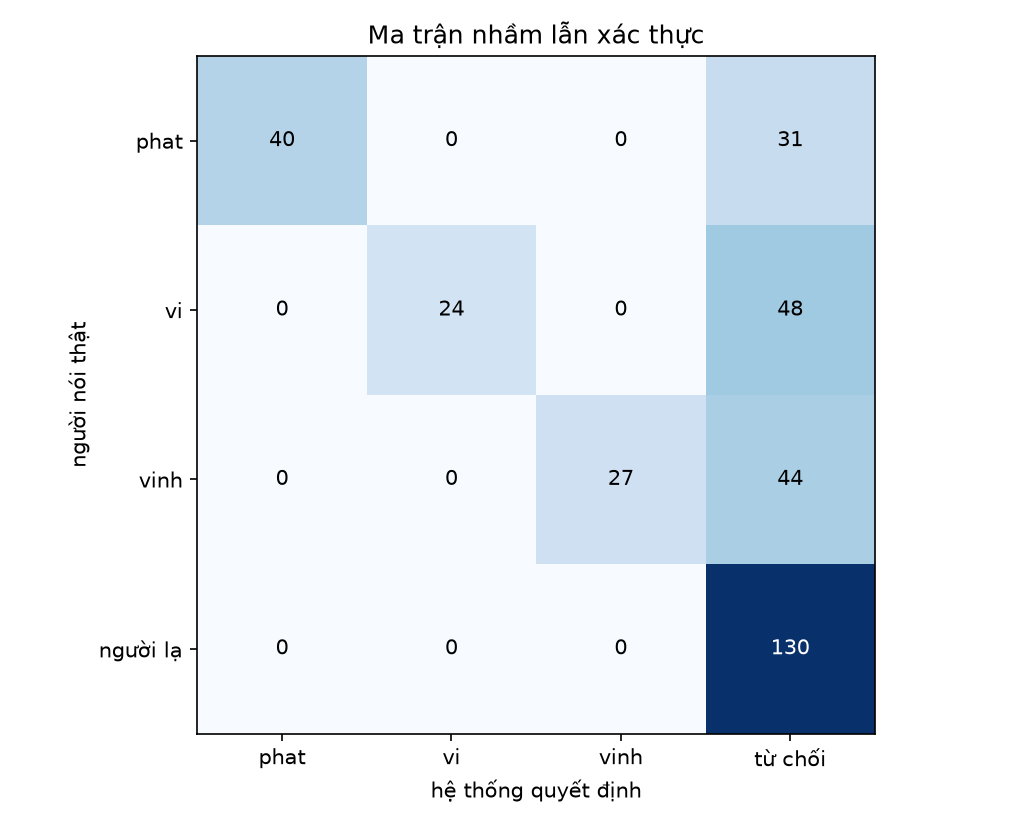
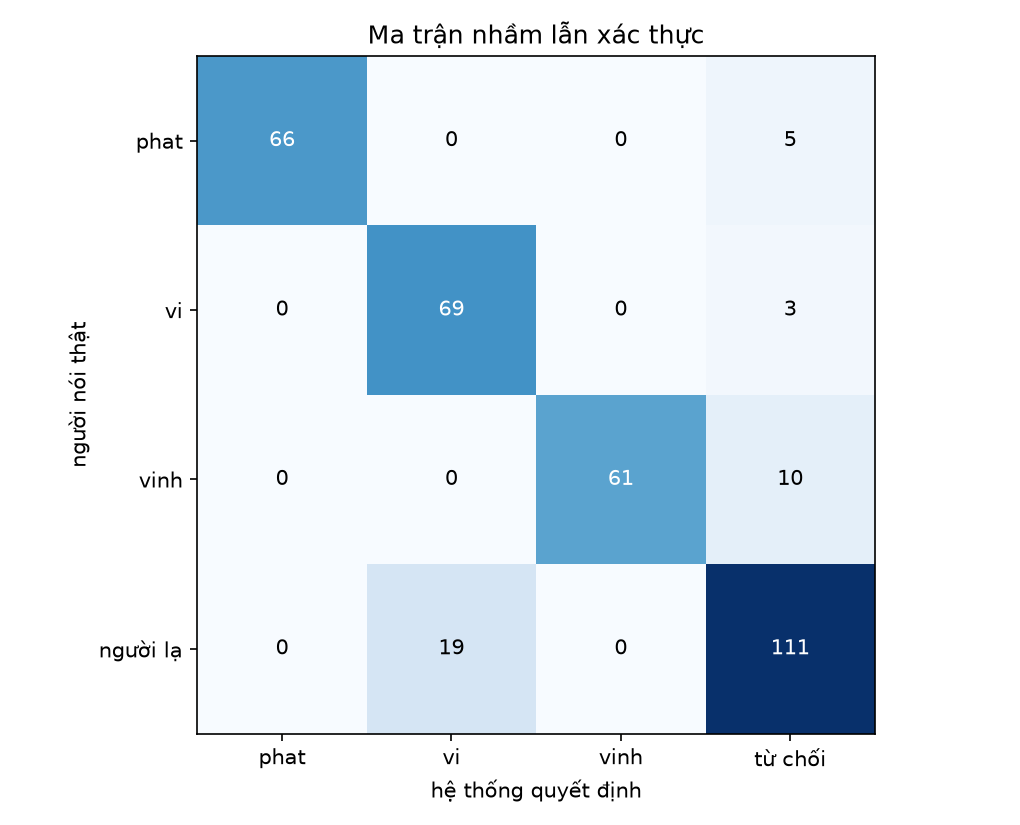
final update

Changed region(s): [[0.1824, 0.0606, 0.8814, 0.9091], [0.7598, 0.7576, 0.7902, 0.7879]]

diff --git a/src/train_speaker.py b/src/train_speaker.py
@@ -48,17 +48,28 @@ def loso_scores(method, C, gamma, X, y, split, X_unk=None):
         tr = [i for i in split["train"] if y[i] != s]
         va = [i for i in split["val"] if y[i] != s]
         imp_idx = np.where(y == s)[0]
+        
         Xt, yt = X[tr], y[tr]
-        if method == "unknown":
+        
+        # LẤY DỮ LIỆU TRAIN CỦA NGƯỜI BỊ BỎ GÁN NHÃN LÀ UNKNOWN
+        # Việc này giúp mô hình LOSO có số lớp bằng với mô hình thực tế
+        held_out_tr = [i for i in split["train"] if y[i] == s]
+        if len(held_out_tr) > 0:
+            Xt = np.vstack([Xt, X[held_out_tr]])
+            yt = np.concatenate([yt, np.array([UNKNOWN] * len(held_out_tr))])
+            
+        if X_unk is not None and len(X_unk) > 0:
             Xt = np.vstack([Xt, X_unk])
             yt = np.concatenate([yt, np.array([UNKNOWN] * len(X_unk))])
+            
         model = build_model(method, C, gamma).fit(Xt, yt)
+        
+        # Lấy điểm genuine (từ tập val) và impostor (từ người bị bỏ)
         names_v, sc_v = score_with(model, X[va], method)
         gens.append(trial_scores(y[va], names_v, sc_v))
         _, sc_i = score_with(model, X[imp_idx], method)
         imps.append(sc_i)
     return np.concatenate(gens), np.concatenate(imps)
-
 
 def main():
     ap = argparse.ArgumentParser()
@@ -124,16 +135,9 @@ def main():
     thresholds, loso_eer, models = {}, {}, {}
     for m in methods:
         if len(spks) >= 3:
-            _, imp = loso_scores(m, C, gamma, X, y, split, X_unk)
-            # Điểm "đúng người" lấy từ mô hình đủ số lớp (giống mô hình cuối), điểm người lạ giả lập
-            # lấy từ các fold LOSO. Như vậy ngưỡng không bị lệch vì fold LOSO có ít lớp hơn.
-            Xt, yt = X[tr], y[tr]
-            if m == "unknown":
-                Xt = np.vstack([Xt, X_unk])
-                yt = np.concatenate([yt, np.array([UNKNOWN] * len(X_unk))])
-            full = build_model(m, C, gamma).fit(Xt, yt)
-            names_v, sc_v = score_with(full, X[va], m)
-            gen = trial_scores(y[va], names_v, sc_v)
+            # SỬA: Lấy cả gen và imp từ LOSO (đã đồng bộ số lớp)
+            gen, imp = loso_scores(m, C, gamma, X, y, split, X_unk)
+            
             eer, thr = compute_eer(gen, imp)
             loso_eer[m] = eer
             thresholds[m] = thr
@@ -160,11 +164,11 @@ def main():
             acc = float(np.mean(names == y[te]))
             print(f"  [{m:7s}] độ chính xác nhận diện người (tập test đăng ký) = {acc * 100:.1f}%")
 
+    # Ép chọn margin vì proba hoạt động kém với bài toán open-set
     valid = [m for m in methods if loso_eer.get(m) is not None]
-    # Chỉ có 2 người đăng ký: không đo được EER, xác suất SVM 2 lớp luôn >= 0,5 nên ưu tiên điểm biên.
-    chosen = min(valid, key=lambda k: loso_eer[k]) if valid else "margin"
-    print(f"Phương pháp được chọn: {chosen}")
-
+    chosen = "margin" if "margin" in valid else (valid[0] if valid else "margin")
+    print(f"Phương pháp được chọn (ép buộc): {chosen}")
+    
     rel = lambda idxs: [recs[i]["rel"] for i in idxs]
     bundle = {
         "feature_set": args.feature_set, "feature_version": FEATURE_VERSION,

diff --git a/src/speaker.py b/src/speaker.py
@@ -259,16 +259,26 @@ def score_with(model, X, method: str):
         D = model.decision_function(X)
         if D.ndim == 1:                      # chỉ 2 lớp
             D = np.column_stack([-D, D])
+        # Nếu mô hình có lớp UNKNOWN, ta gạt lớp này ra khỏi cuộc đua margin
+        if UNKNOWN in model.classes_:
+            unk_idx = np.where(model.classes_ == UNKNOWN)[0][0]
+            D[:, unk_idx] = -np.inf
         idx = D.argmax(axis=1)
         return np.asarray(model.classes_)[idx], D.max(axis=1)
+        
     P = model.predict_proba(X)
     idx = P.argmax(axis=1)
     names = np.asarray(model.classes_)[idx]
-    sc = P.max(axis=1)
-    if method == "unknown":
-        sc = np.where(names == UNKNOWN, 0.0, sc)
+    
+    # Nếu mô hình có lớp UNKNOWN, điểm = 1 - P(UNKNOWN).
+    # Cách này giúp điểm số phản ánh đúng độ chắc chắn là người quen.
+    if UNKNOWN in model.classes_:
+        unk_idx = np.where(model.classes_ == UNKNOWN)[0][0]
+        sc = 1.0 - P[:, unk_idx]
+    else:
+        sc = P.max(axis=1)
+        
     return names, sc
-
 
 # ----------------------------------------------------------------------------
 # Chỉ số xác thực: FAR, FRR, EER
